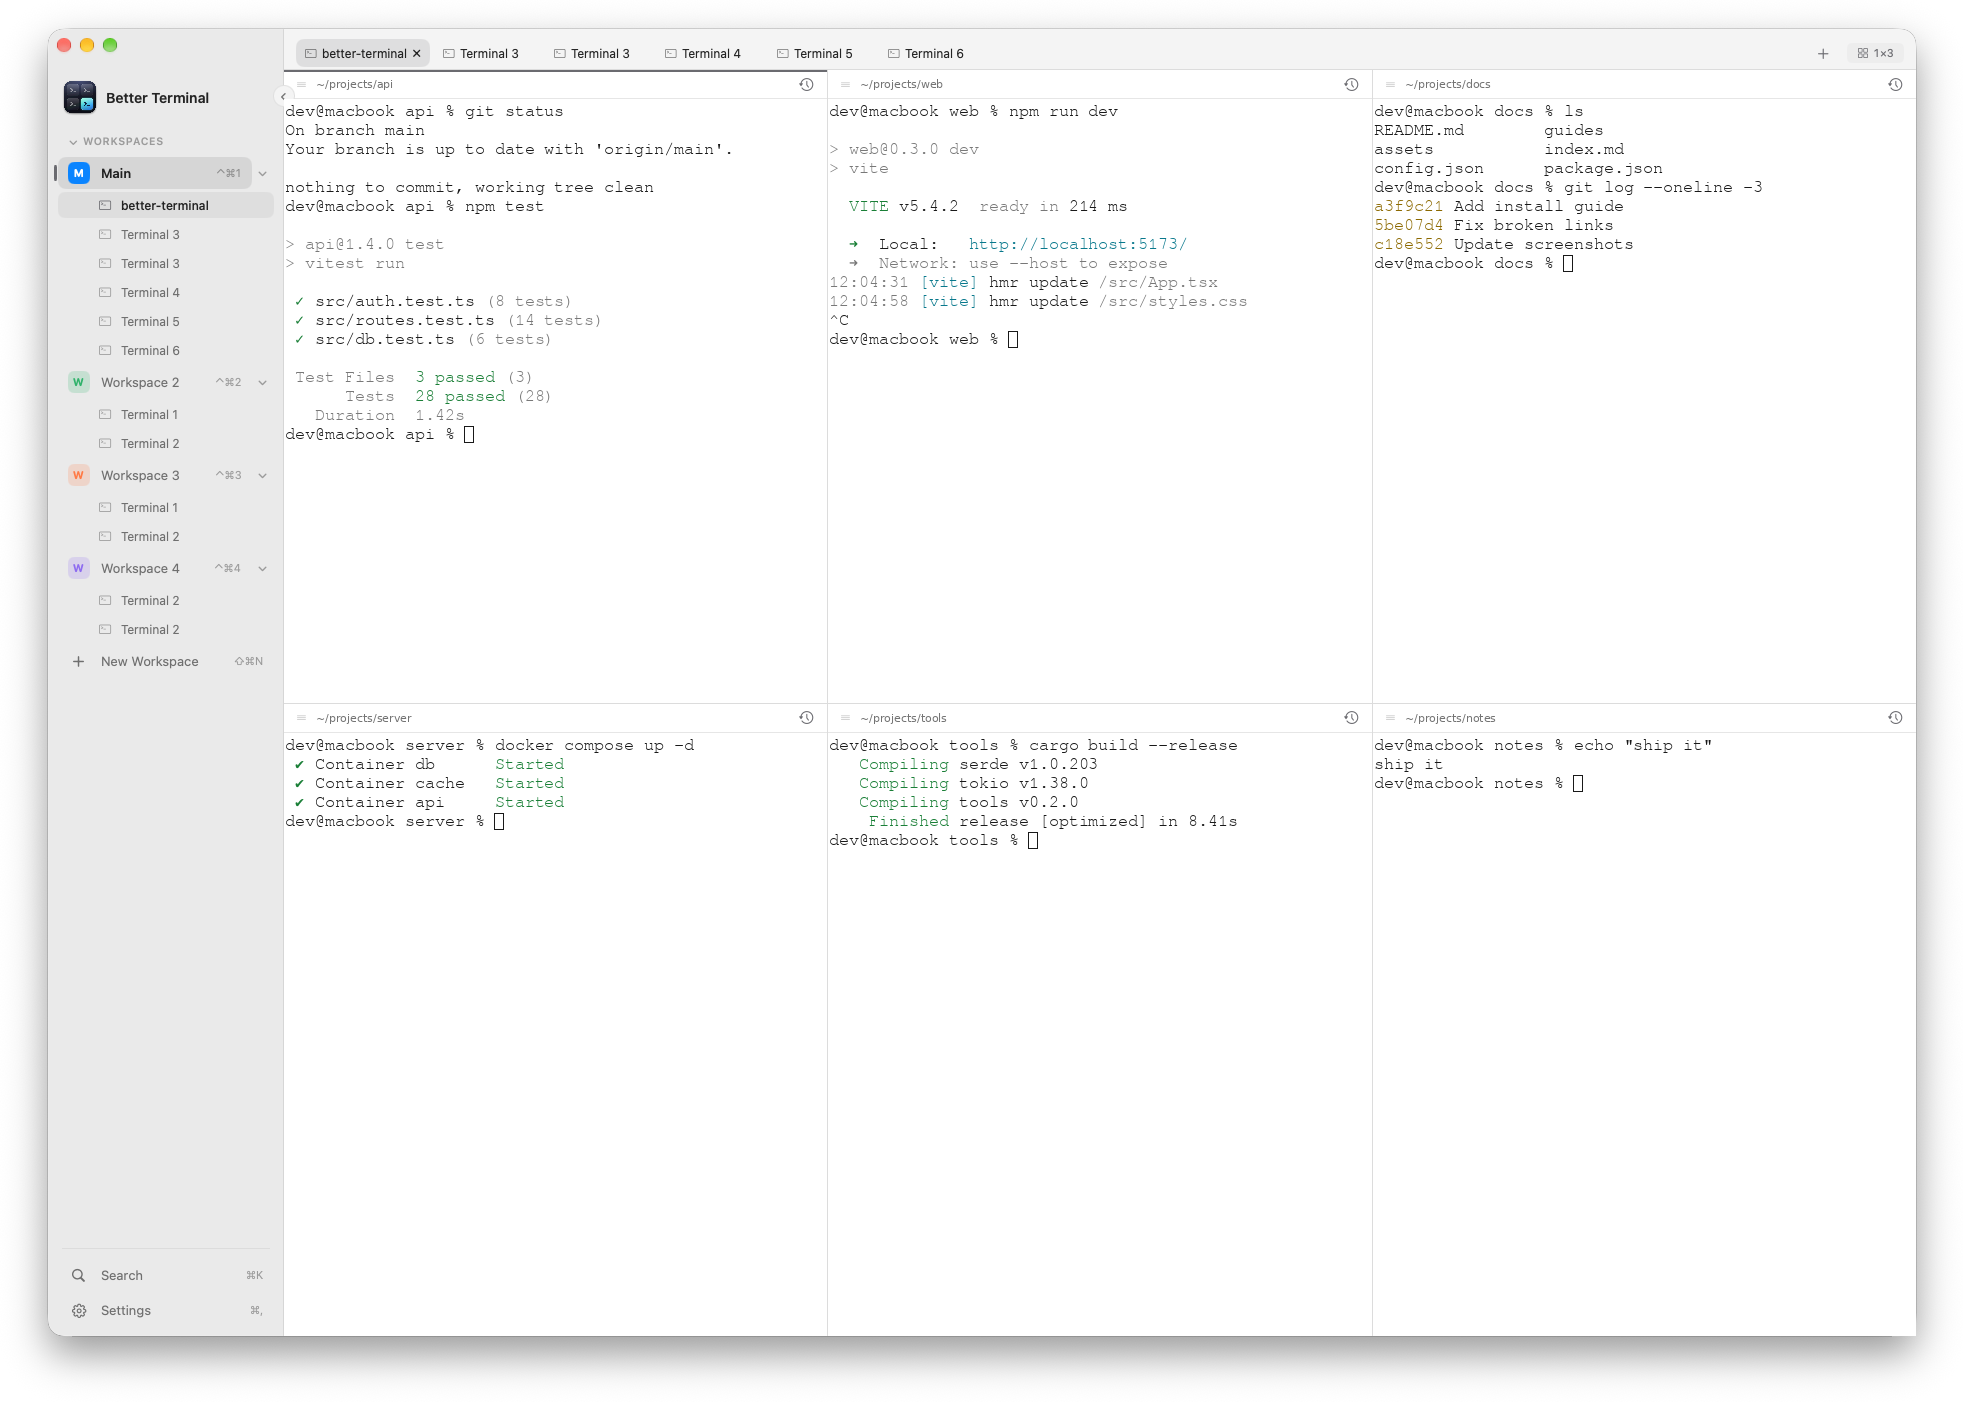
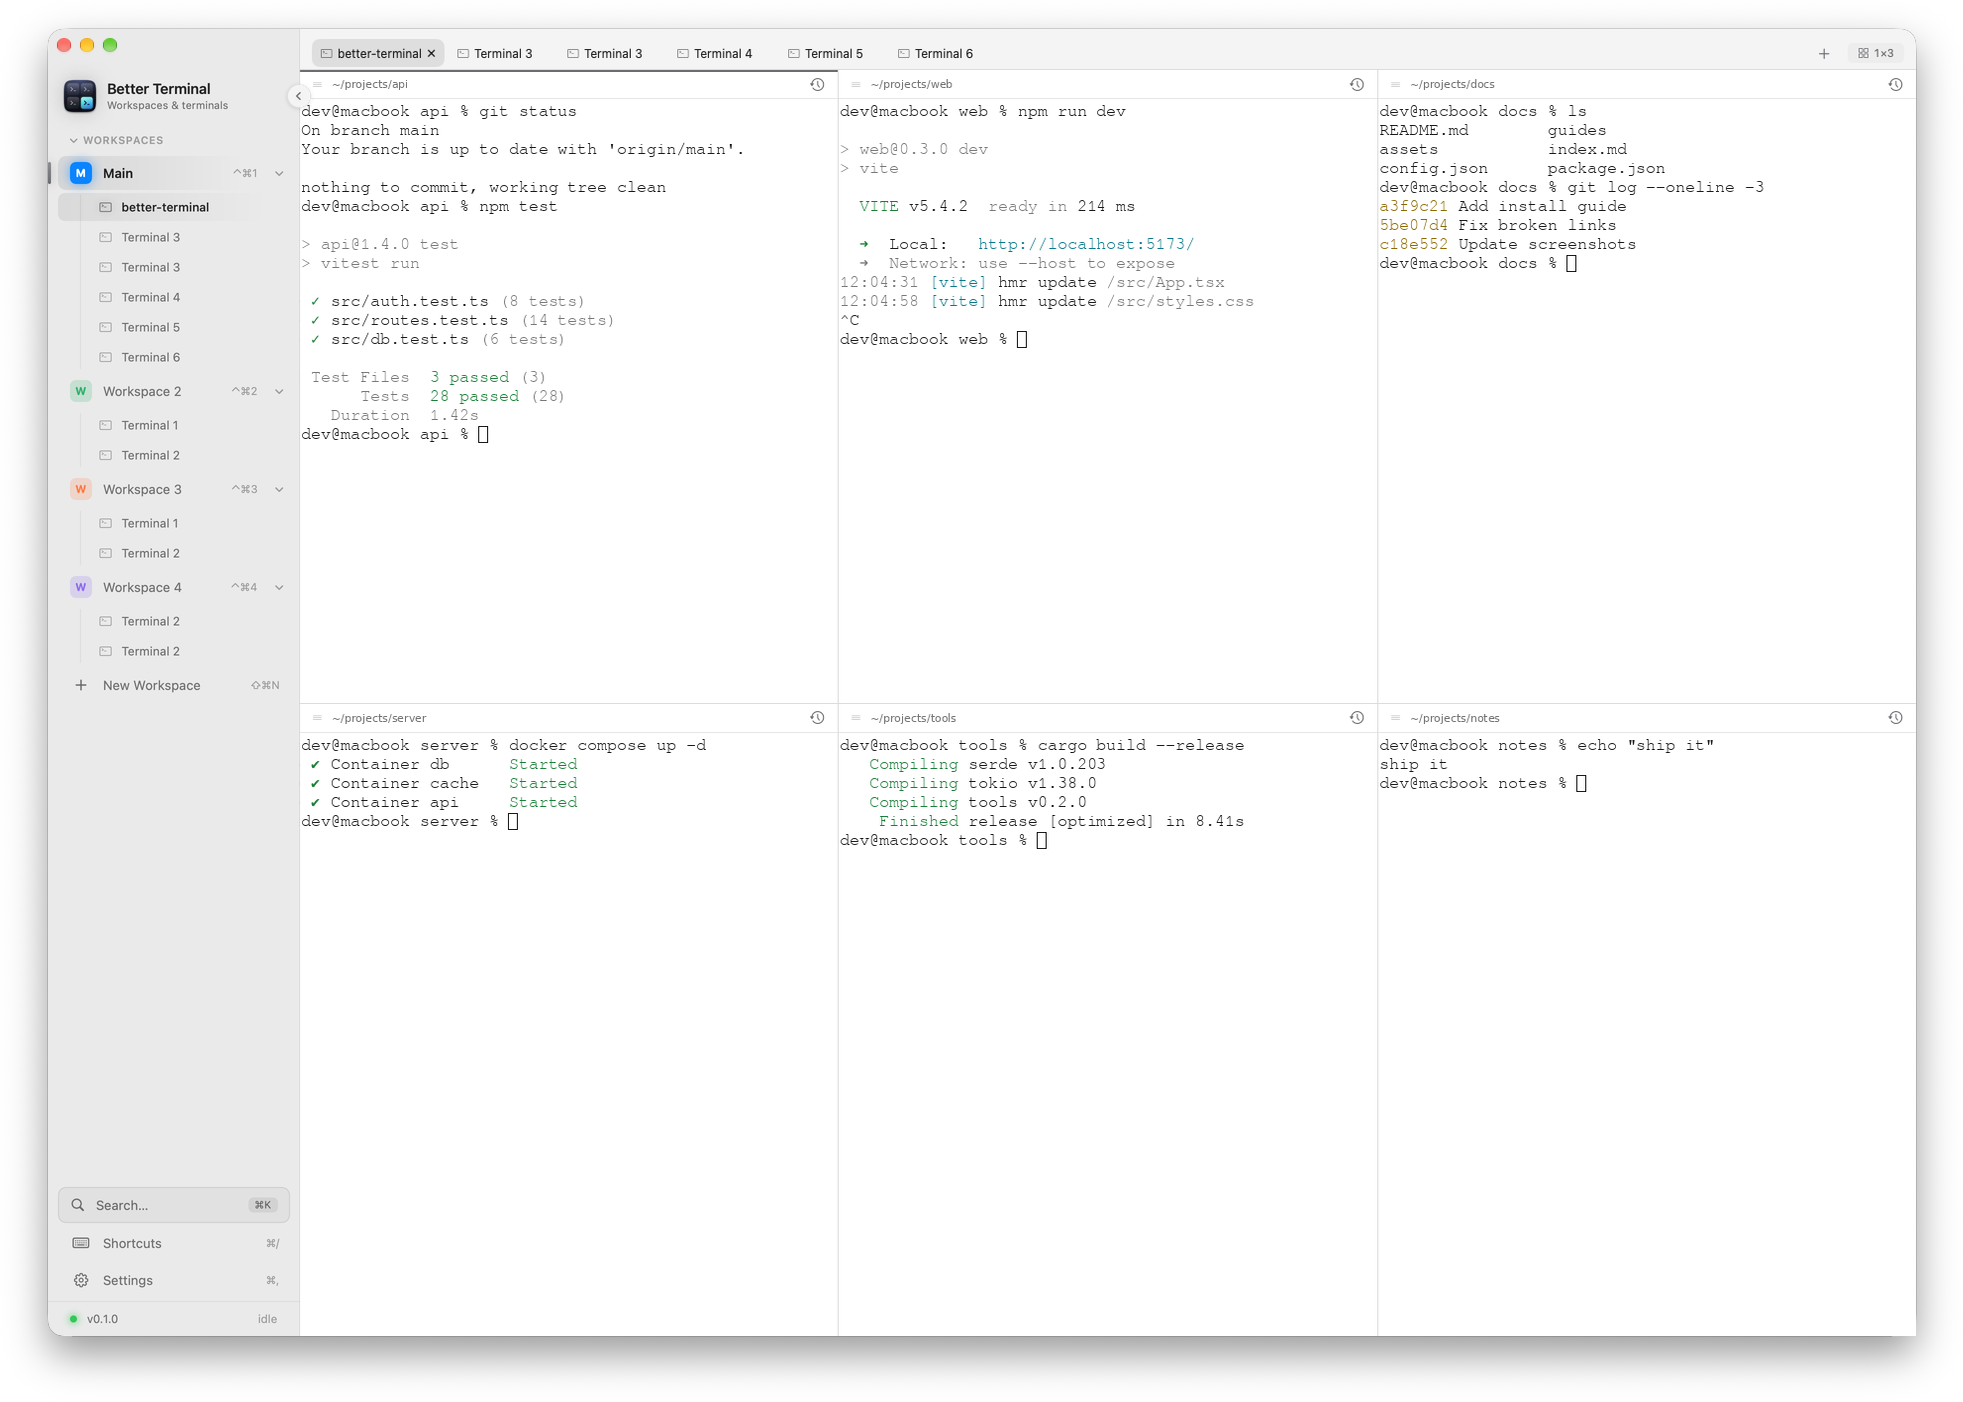
README and website screenshots with the new sidebar; CHANGELOG
Claude-Session: https://claude.ai/code/session_01PFxQRgyGwk8GjzCXRzywFv

diff --git a/CHANGELOG.md b/CHANGELOG.md
@@ -3,6 +3,10 @@
 All notable changes. Release notes shown in the update window live in `docs/release-notes/`.
 
 ## [Unreleased]
+### Changed
+- Sidebar redesign: a soft accent wash, glowing icon and sliding indicator on the selected row; an input-style Search field with the ⌘K key cap; workspace rows show a count pill while tabs run and a dot when a command failed; a footer with the version and what is running; a collapse button that glows on hover; the whole sidebar and its labels animate with one easing. Search, Shortcuts and Settings stay at the bottom. Every option is unchanged.
+- README and website screenshots show the new sidebar.
+
 ### Fixed
 - Broadcast input now repeats typing in the other panes (it needs the key events, which the terminal engine does not hand to the app).
 - Dragging a tab in the tab bar no longer moves the window: the tab strip is its own non-draggable host, and only the empty part of it moves the window.
